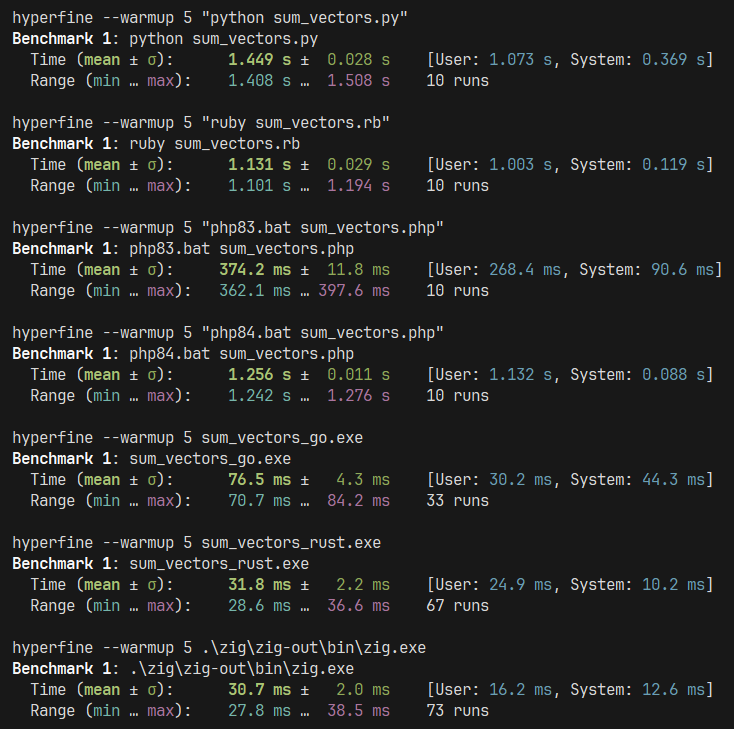
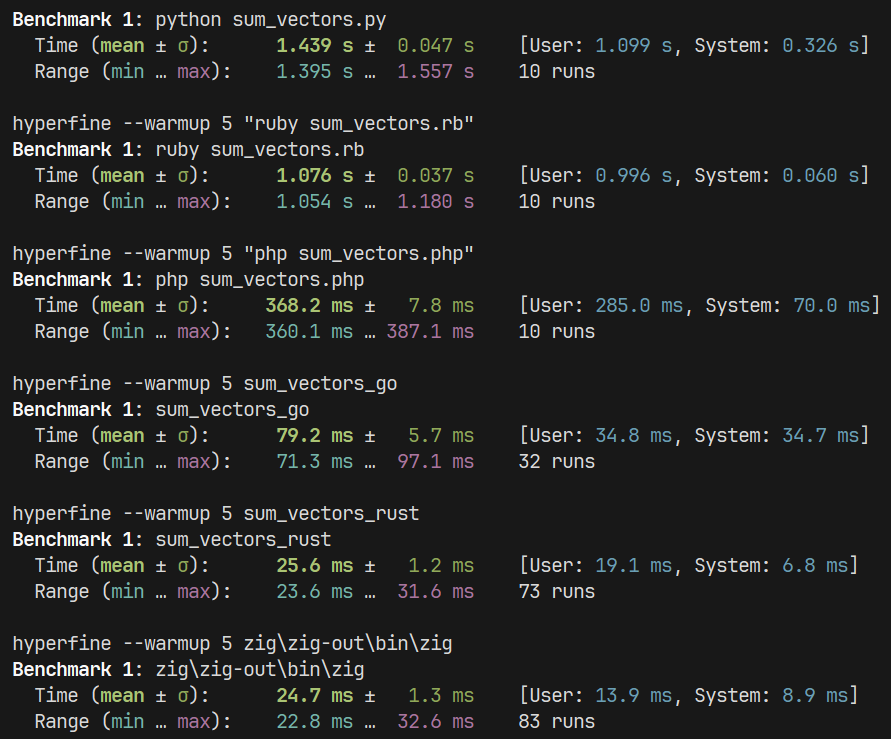
Add languages: JavaScript, Lua

diff --git a/sum_vectors.js b/sum_vectors.js
@@ -1,0 +1,8 @@
+let a = Array.from({ length: 10_000_000 }, (_, i) => i + 1);
+const b = Array.from({ length: 10_000_000 }, (_, i) => i + 1);
+
+for (let i = 0; i < a.length; ++i) {
+  a[i] += b[i];
+}
+
+console.log(`last element = ${a[a.length - 1]}`);
